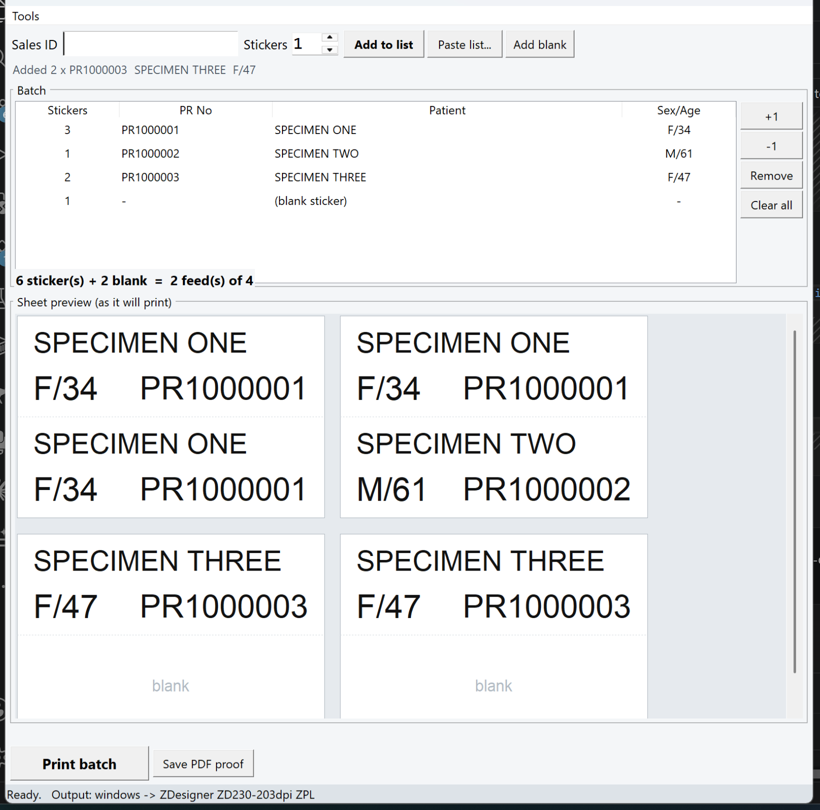
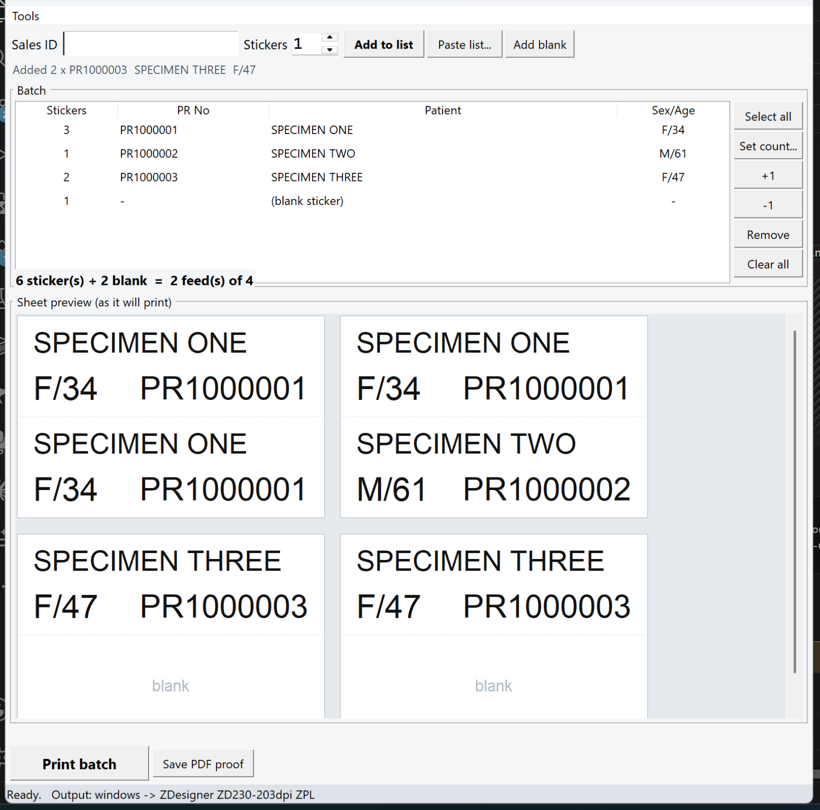
Make the batch list actions work on a multi-row selection
The list already allowed ctrl- and shift-click, but _selected() returned
only the first selected row, so +1, -1 and Remove silently acted on one
row out of however many were highlighted.

- every action now applies to the whole selection
- Select all button and Ctrl+A, bound on the list and the window
- Set count... gives every selected row the same number in one step,
  which is the usual thing after pasting a list
- the selection is restored across the refresh that follows each action,
  instead of being cleared so the next click needs a reselect
- with nothing selected the buttons say so rather than doing nothing

Also fixes a subtler bug: after Remove, the old selection was clamped onto
whatever shuffled into those index positions, so a following +1 changed a
row the user never chose. The selection is now cleared after a removal.

diff --git a/labelprint/gui.py b/labelprint/gui.py
@@ -16,7 +16,7 @@ import threading
 import tkinter as tk
 from dataclasses import dataclass, field
 from datetime import datetime
-from tkinter import filedialog, font as tkfont, messagebox, ttk
+from tkinter import (filedialog, font as tkfont, messagebox, simpledialog, ttk)
 
 from . import api, bulk, config, output, pdfproof, preview, zpl
 
@@ -139,7 +139,8 @@ class App(tk.Tk):
         list_frame.columnconfigure(0, weight=1)
 
         cols = ("qty", "prno", "name", "sexage")
-        self.tree = ttk.Treeview(list_frame, columns=cols, show="headings", height=7)
+        self.tree = ttk.Treeview(list_frame, columns=cols, show="headings",
+                                 height=7, selectmode="extended")
         for key, text, width, anchor in (
             ("qty", "Stickers", 80, "center"), ("prno", "PR No", 130, "w"),
             ("name", "Patient", 330, "w"), ("sexage", "Sex/Age", 90, "center"),
@@ -148,12 +149,20 @@ class App(tk.Tk):
             self.tree.column(key, width=int(width * self.ui), anchor=anchor)
         self.tree.grid(row=0, column=0, sticky="ew")
         self.tree.bind("<Delete>", lambda _e: self._remove())
+        self.tree.bind("<Control-a>", self._select_all)
+        self.tree.bind("<Control-A>", self._select_all)
+        self.bind("<Control-a>", self._select_all)
+        self.bind("<Control-A>", self._select_all)
 
         side = tk.Frame(list_frame, bg=BG)
         side.grid(row=0, column=1, sticky="ns", padx=(8, 0))
-        for text, cmd in (("+1", lambda: self._bump(1)), ("-1", lambda: self._bump(-1)),
-                          ("Remove", self._remove), ("Clear all", self._clear)):
-            tk.Button(side, text=text, width=9, command=cmd).pack(pady=2)
+        for text, cmd in (("Select all", self._select_all),
+                          ("Set count...", self._set_count),
+                          ("+1", lambda: self._bump(1)),
+                          ("-1", lambda: self._bump(-1)),
+                          ("Remove", self._remove),
+                          ("Clear all", self._clear)):
+            tk.Button(side, text=text, width=10, command=cmd).pack(pady=2)
 
         self.summary_var = tk.StringVar()
         tk.Label(self, textvariable=self.summary_var, bg=BG, anchor="w",
@@ -202,7 +211,11 @@ class App(tk.Tk):
             slots.extend([item.label] * item.qty)
         return zpl.pad_slots(slots, self.cfg, self.cfg.pad_with_blanks)
 
-    def _refresh(self) -> None:
+    def _refresh(self, keep: list[int] | None = None) -> None:
+        # The tree is rebuilt from scratch, so the selection has to be put back
+        # or every +1 would clear what the user had highlighted.
+        if keep is None:
+            keep = self._selected()
         self.tree.delete(*self.tree.get_children())
         for i, item in enumerate(self.queue):
             if item.is_blank:
@@ -211,6 +224,10 @@ class App(tk.Tk):
                 values = (item.qty, item.label.prno, item.label.name,
                           item.label.sex_age)
             self.tree.insert("", "end", iid=str(i), values=values)
+
+        restore = [str(i) for i in keep if 0 <= i < len(self.queue)]
+        if restore:
+            self.tree.selection_set(restore)
 
         slots = self._slots()
         filled = sum(1 for s in slots if s is not None)
@@ -261,9 +278,23 @@ class App(tk.Tk):
         except ValueError:
             return self.cfg.default_qty
 
-    def _selected(self) -> int | None:
-        sel = self.tree.selection()
-        return int(sel[0]) if sel else None
+    def _selected(self) -> list[int]:
+        """Every selected row, low index first. The list supports shift- and
+        ctrl-click, and Ctrl+A, so actions must apply to all of them."""
+        return sorted(int(iid) for iid in self.tree.selection())
+
+    def _select_all(self, _event=None) -> str:
+        self.tree.selection_set(self.tree.get_children())
+        self.tree.focus_set()
+        return "break"          # stop Tk's default select-all on the entry
+
+    def _need_selection(self) -> list[int]:
+        rows = self._selected()
+        if not rows:
+            self.status_var.set(
+                "Select one or more rows first - Ctrl+A or 'Select all' "
+                "selects the whole list.")
+        return rows
 
     # --------------------------------------------------------------- actions
     def _add(self) -> None:
@@ -335,20 +366,44 @@ class App(tk.Tk):
         self._refresh()
 
     def _bump(self, delta: int) -> None:
-        index = self._selected()
-        if index is None:
+        rows = self._need_selection()
+        if not rows:
             return
-        item = self.queue[index]
-        item.qty = max(1, item.qty + delta)
-        self._refresh()
-        self.tree.selection_set(str(index))
+        for index in rows:
+            item = self.queue[index]
+            item.qty = max(1, item.qty + delta)
+        self._refresh(keep=rows)
+        self.status_var.set(f"{'Added 1 to' if delta > 0 else 'Removed 1 from'} "
+                            f"{len(rows)} row(s).")
+
+    def _set_count(self) -> None:
+        """Give every selected patient the same number of stickers - the usual
+        thing after pasting a list."""
+        rows = self._need_selection()
+        if not rows:
+            return
+        current = self.queue[rows[0]].qty
+        value = simpledialog.askinteger(
+            "Stickers", f"Stickers for each of the {len(rows)} selected "
+                        f"patient(s):",
+            parent=self, minvalue=1, maxvalue=99, initialvalue=current)
+        if value is None:
+            return
+        for index in rows:
+            self.queue[index].qty = value
+        self._refresh(keep=rows)
+        self.status_var.set(f"Set {len(rows)} row(s) to {value} sticker(s) each.")
 
     def _remove(self) -> None:
-        index = self._selected()
-        if index is None:
+        rows = self._need_selection()
+        if not rows:
             return
-        self.queue.pop(index)
-        self._refresh()
+        for index in reversed(rows):      # reversed, so earlier ones keep their index
+            self.queue.pop(index)
+        # Clear the selection rather than let it land on whatever shuffled into
+        # those positions - otherwise the next +1 hits a row nobody chose.
+        self._refresh(keep=[])
+        self.status_var.set(f"Removed {len(rows)} row(s).")
 
     def _clear(self) -> None:
         self.queue.clear()

diff --git a/README.md b/README.md
@@ -189,13 +189,31 @@ set MOLPATH_API_URL=https://your-server/viewBookingHeader
 | 5 | Check the sheet preview, then **Print batch** |
 
 Scanning the same PR twice increases its count rather than adding a second row.
-Select a row and use **+1 / −1 / Remove**, or press `Delete`.
+
+### Changing counts in bulk
+
+Rows support normal multi-selection — **Ctrl+click** for individual rows,
+**Shift+click** for a range, **Ctrl+A** or **Select all** for everything — and
+every button applies to the whole selection.
+
+The usual sequence after pasting a list is:
+
+> **Ctrl+A** → **Set count…** → type `3` → every patient gets 3 stickers.
+
+| Button | |
+|---|---|
+| **Select all** | select every row (`Ctrl+A`) |
+| **Set count…** | give every selected row the same number of stickers |
+| **+1 / −1** | adjust every selected row by one |
+| **Remove** | delete every selected row (`Delete`) |
+| **Clear all** | empty the batch |
 
 | Shortcut | |
 |---|---|
 | `Enter` | look up and add to the batch |
+| `Ctrl` + `A` | select every row |
 | `Ctrl` + `P` | print the batch |
-| `Delete` | remove the selected row |
+| `Delete` | remove the selected rows |
 | `Esc` | return focus to the Sales ID box |
 
 The batch clears itself after a successful print, so the next patient starts
